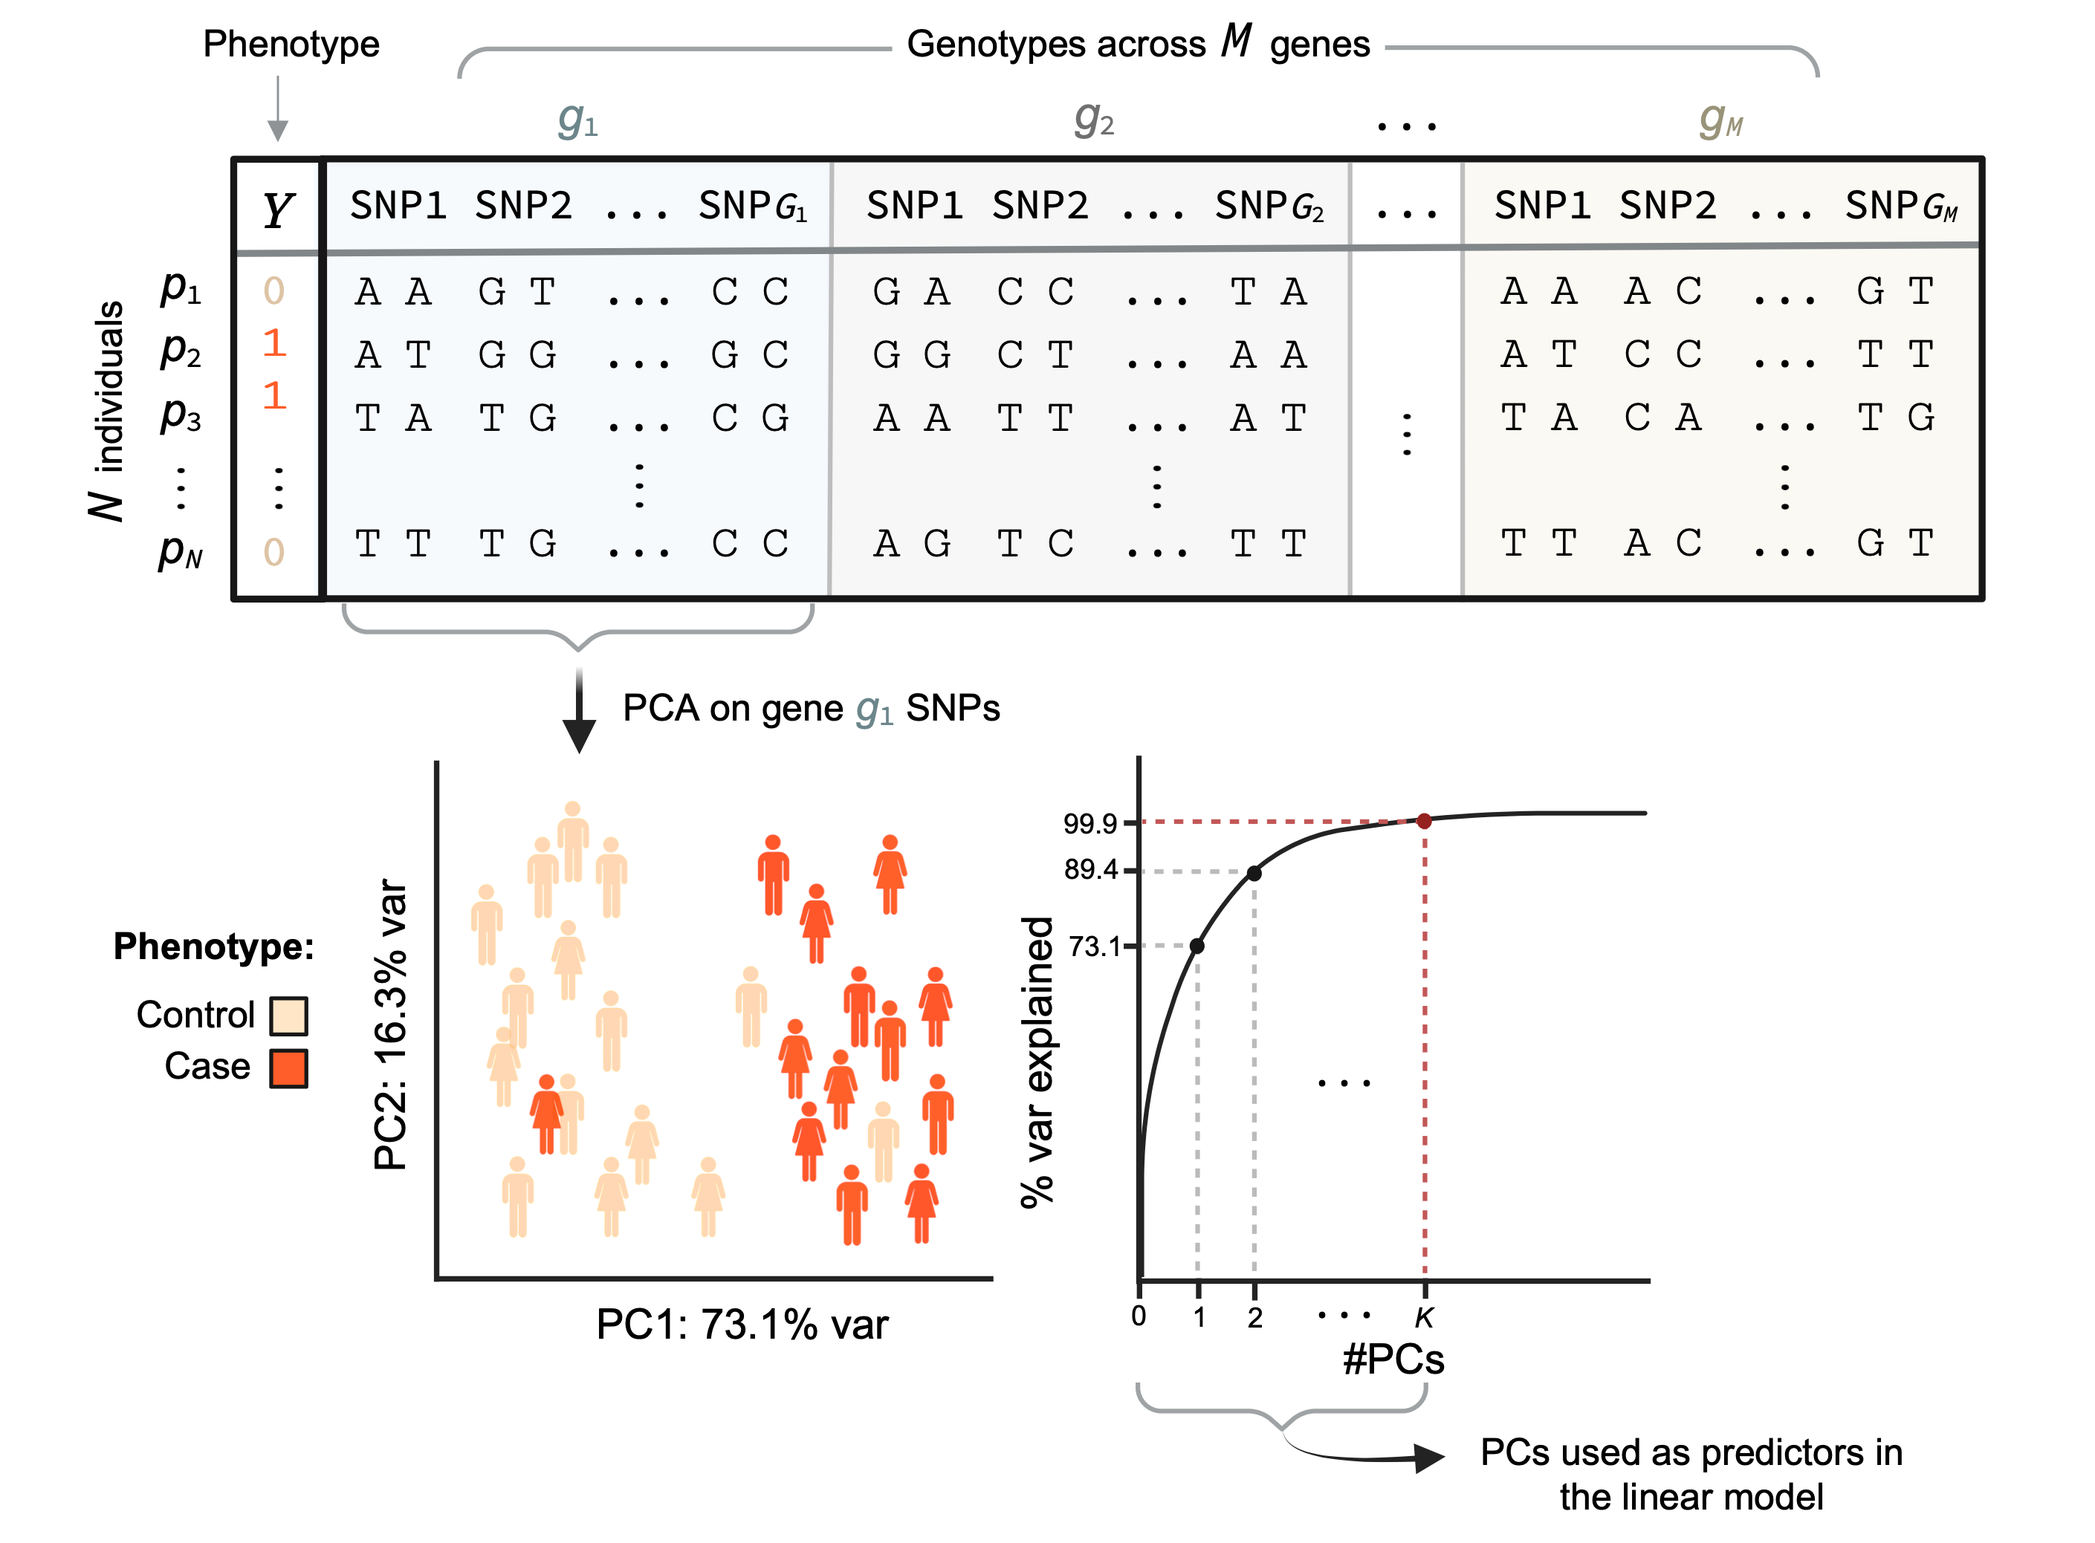
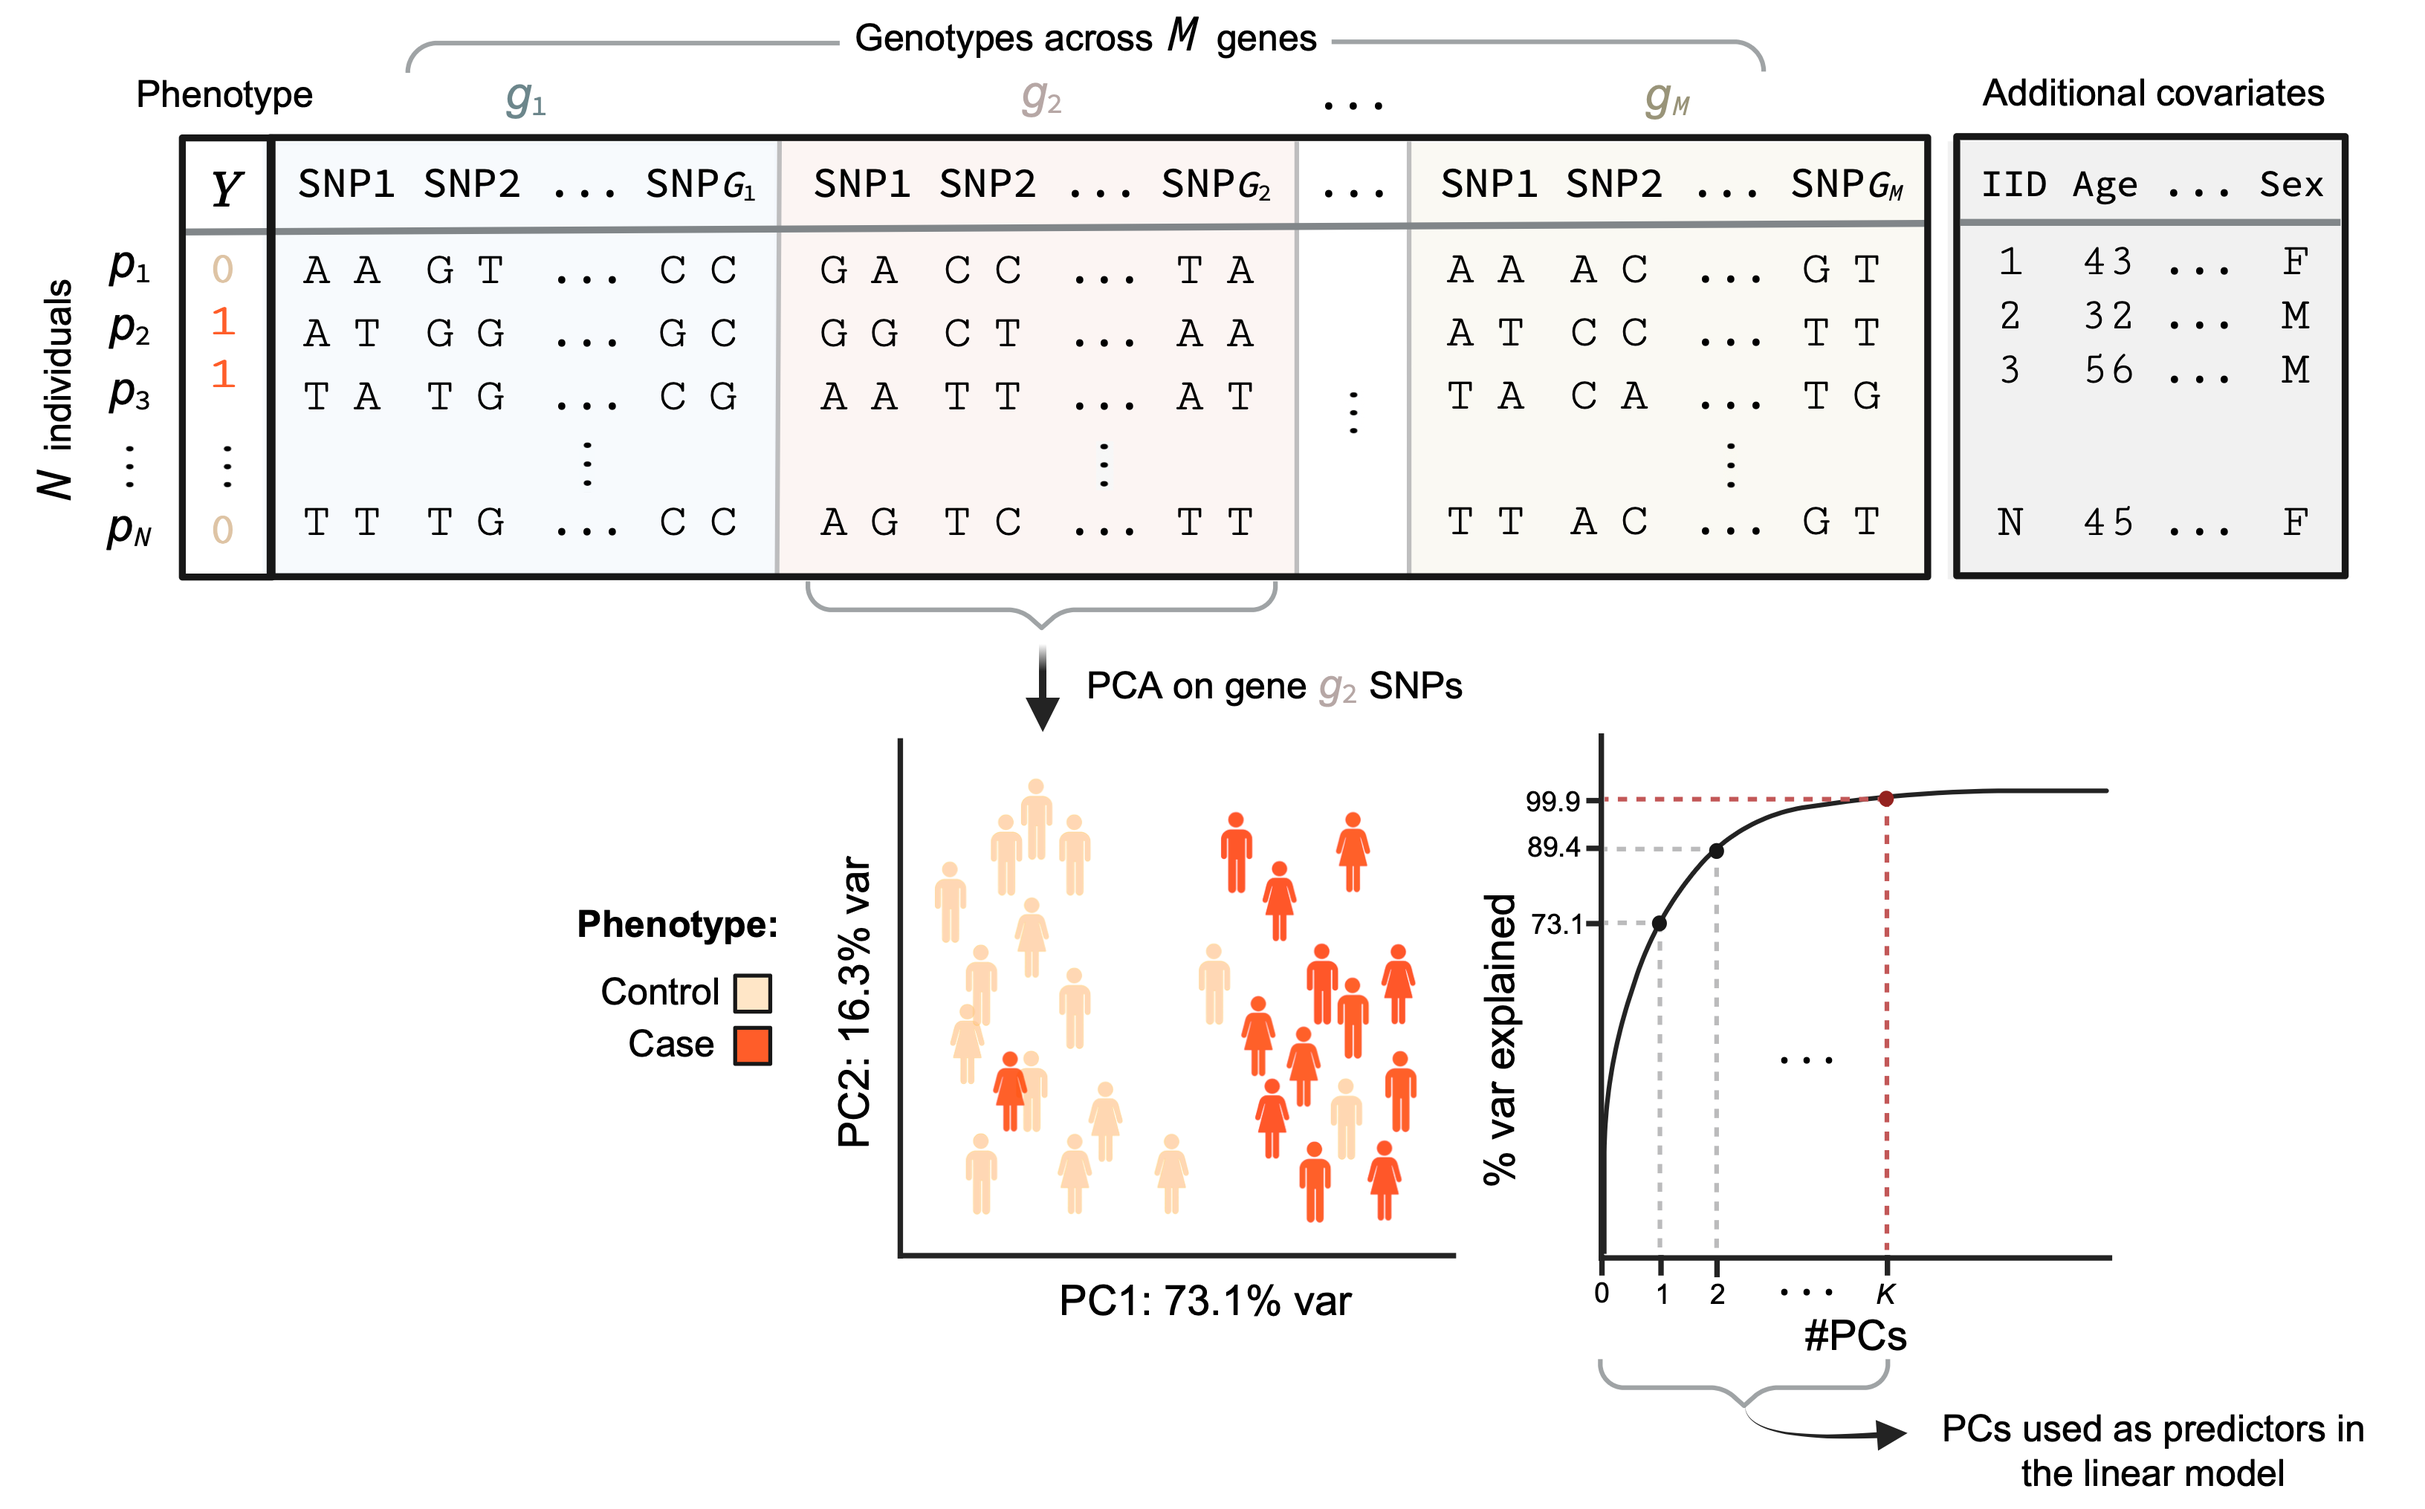
Add cov fig

Changed region(s): [[0.0, 0.0, 0.9677, 0.4963], [0.0624, 0.4963, 0.9677, 0.9926], [0.8116, 0.4963, 0.8429, 0.5273]]

diff --git a/docs/posts/2024-07-16-MAGMA/index.html b/docs/posts/2024-07-16-MAGMA/index.html
@@ -340,7 +340,7 @@ Y = \alpha_{0g}+X^*_{g}\alpha_g+W\beta_g+\epsilon_g
 <section id="snp-wise-gene-analysis" class="level3">
 <h3 class="anchored" data-anchor-id="snp-wise-gene-analysis"><span style="color:#7AC5CD"><strong>SNP-wise gene analysis</strong></span></h3>
 <p>If no raw genotype data is available, MAGMA also accepts <u><strong>SNP <em>p</em>-values</strong></u> from a GWAS as input. In this case SNP <em>p</em>-values for a gene are first transformed into <u><strong>Z or</strong> <span class="math inline">\(\chi^2\)</span><strong>statistics</strong></u> and then combined into a <u><strong>gene test-statistic</strong></u> by the <span style="background-color: #F0FFF0"><strong>mean SNP statistic</strong></span> or <span style="background-color:#FFF0F5"><strong>top SNP statistic</strong></span> method. This gene test-statistic is then used to compute the <u><strong>gene <em>p</em>-value</strong></u>, either by an approximation of the sampling distribution (mean SNP statistic method) or by phenotype permutation (mean and top SNP statistic methods).</p>
-<p>This SNP-wise MAGMA analysis based on SNP summary statisitcs requires a <strong>reference dataset</strong> with similar ancestry as the data from which SNPs <em>p</em>-values were computed. This is needed to account for LD between SNPs. If an approximation of the sampling distribution is used to compute the gene <em>p</em>-value, this reference is required to obtain the SNP statistic correlation matrix <span class="math inline">\(R\)</span>. If phenotype permutation is chosen, these reference data are necessary to generate the gene test-statistics empirical sampling distribution.</p>
+<p>This SNP-wise MAGMA analysis based on SNP summary statistics requires a <strong>reference dataset</strong> with similar ancestry as the data from which SNPs <em>p</em>-values were computed. This is needed to account for LD between SNPs. If an approximation of the sampling distribution is used to compute the gene <em>p</em>-value, this reference is required to obtain the SNP statistic correlation matrix <span class="math inline">\(R\)</span>. If phenotype permutation is chosen, these reference data are necessary to generate the gene test-statistics empirical sampling distribution.</p>
 <div style="background-color:#F2F2F2; padding: 15px">
 <p>Summary: SNP <em>p</em>-values → SNP statistics →<span style="color:#EE00EE"><strong>*</strong></span>gene test-statistic →<span style="color: #00CD00"><strong>*</strong></span> gene <em>p</em>-value → gene <em>z</em>-score (<span class="math inline">\(z_g\)</span>)</p>
 </div>
@@ -368,13 +368,13 @@ Note
 <p>The SNP-wise gene analysis of MAGMA can also be run with raw genotype data, in which case SNP <em>p</em>-values are computed internally and the raw genotype data takes place of the reference data.</p>
 </div>
 </div>
-<p>After running the gene analysis, either by PC regression or SNP-wise analysis, the resulting gene <em>p</em>-values are subsequently transformed to z-scores (<span class="math inline">\(z_g\)</span>) to be introduced in the gene-set analysis. These z-scores capture the association of the genes with the phenotype.</p>
+<p>After running the gene analysis, either by PC regression or SNP-wise analysis, the resulting gene <em>p</em>-values are subsequently transformed to z-scores (<span class="math inline">\(z_g\)</span>) to be introduced in the gene-set analysis. These z-scores capture the association of the genes with the phenotype. (HEREEEEE)</p>
 </section>
 </section>
 <section id="gene-set-analysis" class="level2">
 <h2 class="anchored" data-anchor-id="gene-set-analysis">Gene-set analysis</h2>
-<p>Before entering into what is a gene-set analysis and what inforamation it can provide, we must clarify that the gene-set analysis operates in the same way using gene analysis results based on the PC linear regression model or the SNP-wise analysis. All that’s necessary to run the gene-set analysis are the gene <em>p</em>-values obtained from the gene analysis.</p>
-<p>By aggregating genes in groups of genes that share cellular or functional properties and evaluating their association with a phenotype, we can gain insights into the potential molecules, pathways, and tissues implicated in the phenotype’s etiology.</p>
+<p>Once having gene-level associations, we can now think of gene set associations. Intiatlly, we aggregate genes in groups of genes that share cellular or functional properties, such as involvements in certain biological processes, with particular molecular functions, cellular locations, cell-type specific expression or activity, or differential expression for a given condition. These define concrete processes or features we may be interested in relating with a GWAS phenotype. By doing this, we can gain insights into the potential molecules, pathways, and tissues implicated in a phenotype’s etiology.</p>
+<p>Since all that’s necessary from the gene analysis to run the gene-set analysis are the gene <em>z</em>-scores, gene-set analysis operates the same independently of the gene analysis method applied (PC regression or SNP-wise), as both result in gene <em>p</em>-values and respective <em>z</em>-scores.</p>
 <p>Two gene-level regression models are implemented:</p>
 <p>Genes of our particular interest are in turn aggregated into gene sets depending on their biological functions or other shared characteristics/involvements (such as being up/down DEGs). Analyzing gene sets evidently reduces the number of output tests but the gene analysis still has to be performed.</p>
 </section>

diff --git a/docs/blog.html b/docs/blog.html
@@ -229,7 +229,7 @@ window.Quarto = {
 
 <div class="quarto-listing quarto-listing-container-default" id="listing-listing">
 <div class="list quarto-listing-default">
-<div class="quarto-post image-right" data-index="0" data-categories="GWAS,Gene analysis,Gene Set Enrichment,SNP summary statistics" data-listing-date-sort="1721109600000" data-listing-file-modified-sort="1721369756446" data-listing-date-modified-sort="NaN" data-listing-reading-time-sort="13" data-listing-word-count-sort="2549">
+<div class="quarto-post image-right" data-index="0" data-categories="GWAS,Gene analysis,Gene Set Enrichment,SNP summary statistics" data-listing-date-sort="1721109600000" data-listing-file-modified-sort="1721373491882" data-listing-date-modified-sort="NaN" data-listing-reading-time-sort="13" data-listing-word-count-sort="2584">
 <div class="thumbnail">
 <p><a href="./posts/2024-07-16-MAGMA/index.html" class="no-external"></a></p><a href="./posts/2024-07-16-MAGMA/index.html" class="no-external">
 <p><img src="./posts/2024-07-16-MAGMA/images/logo.png" class="thumbnail-image"></p>
